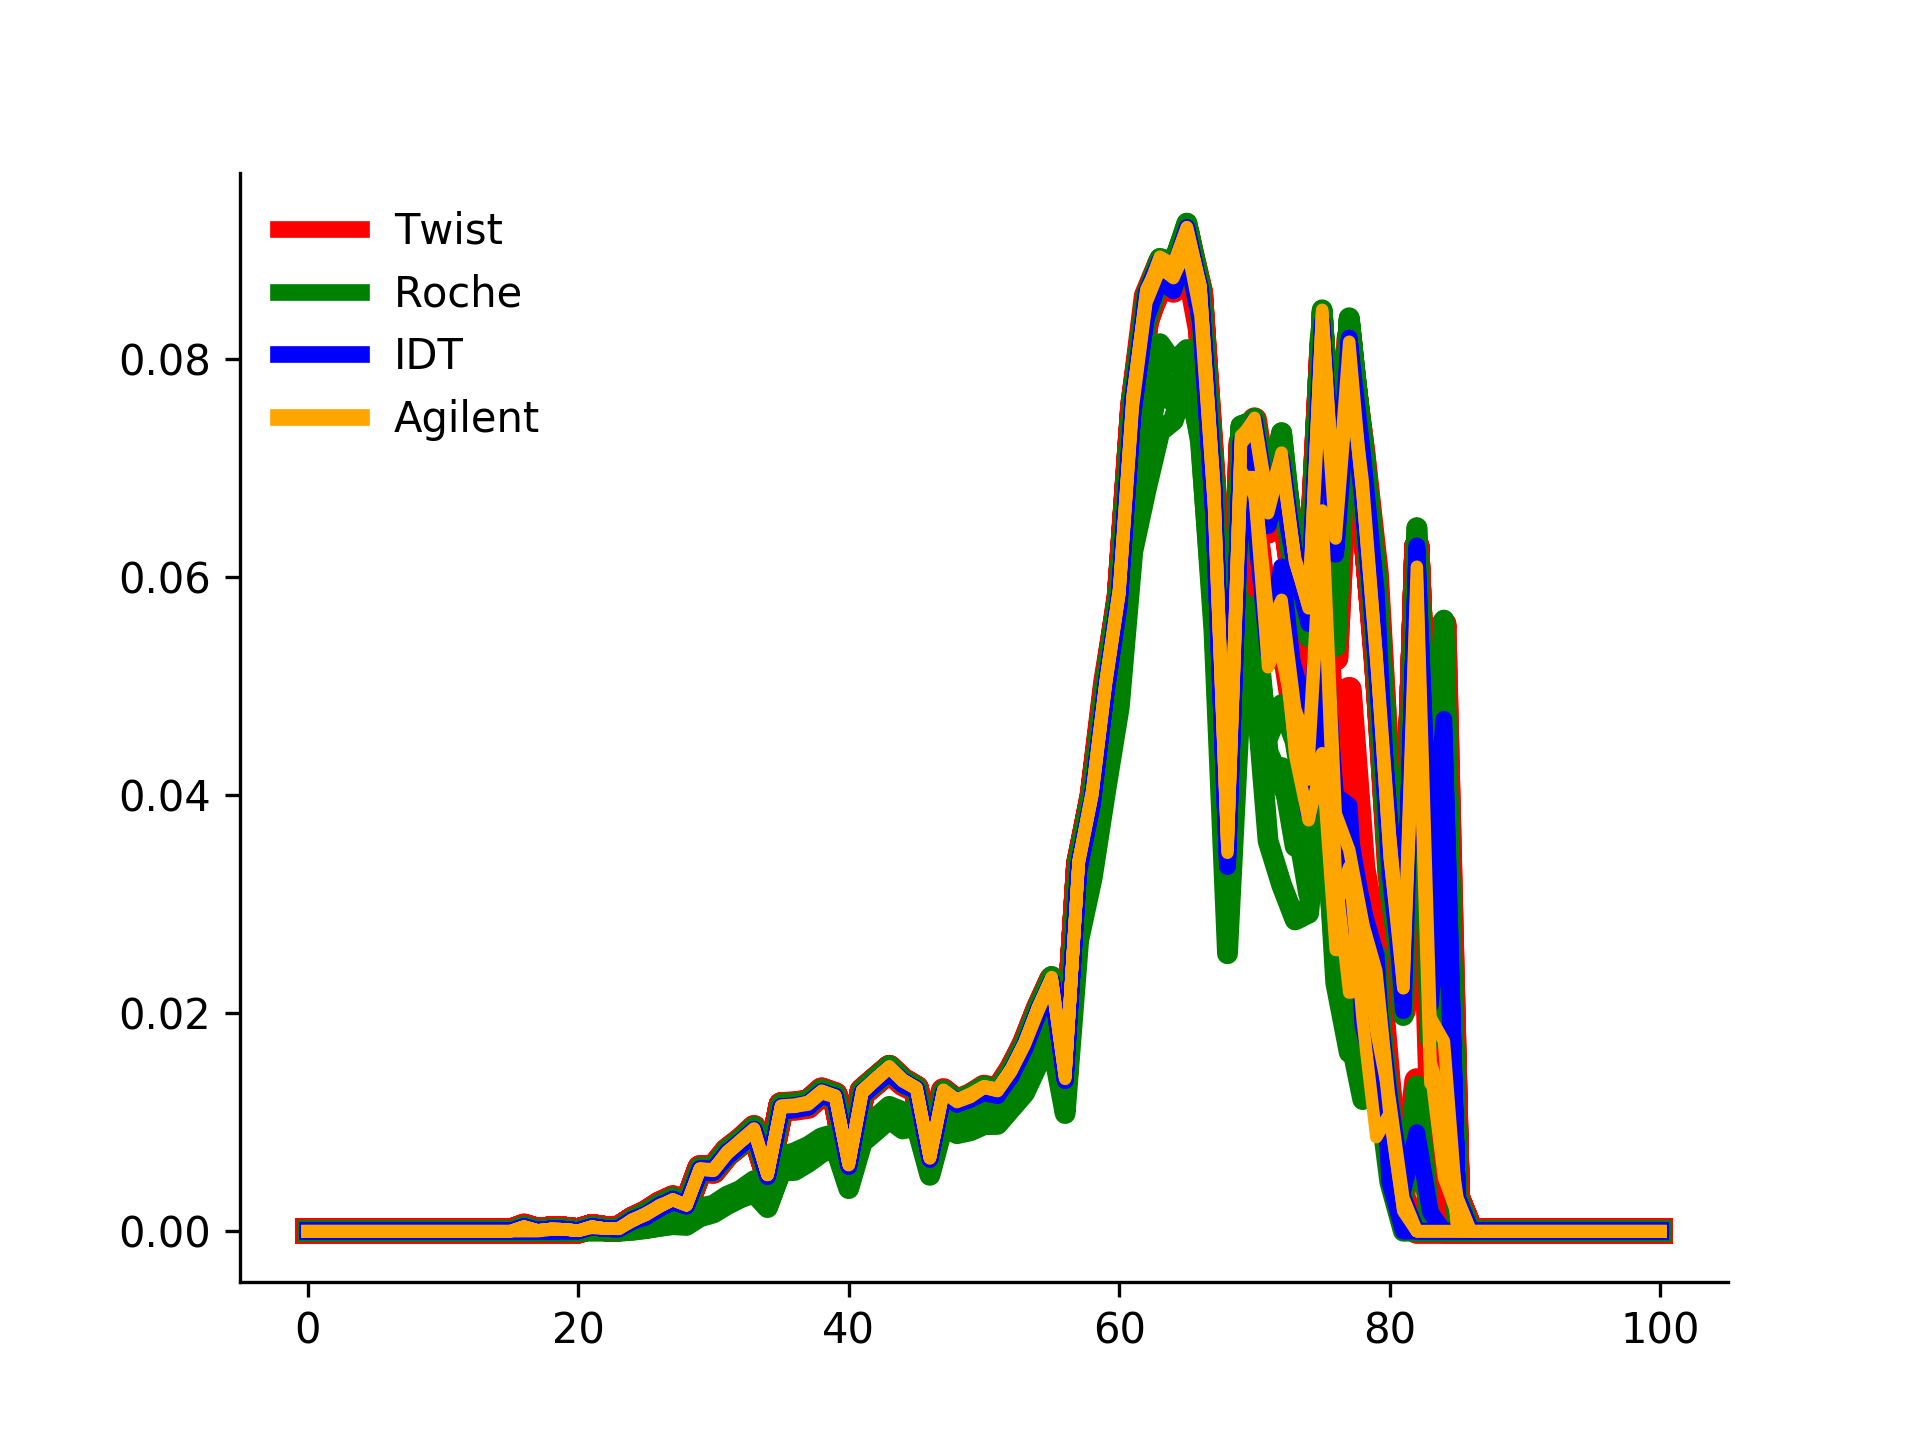
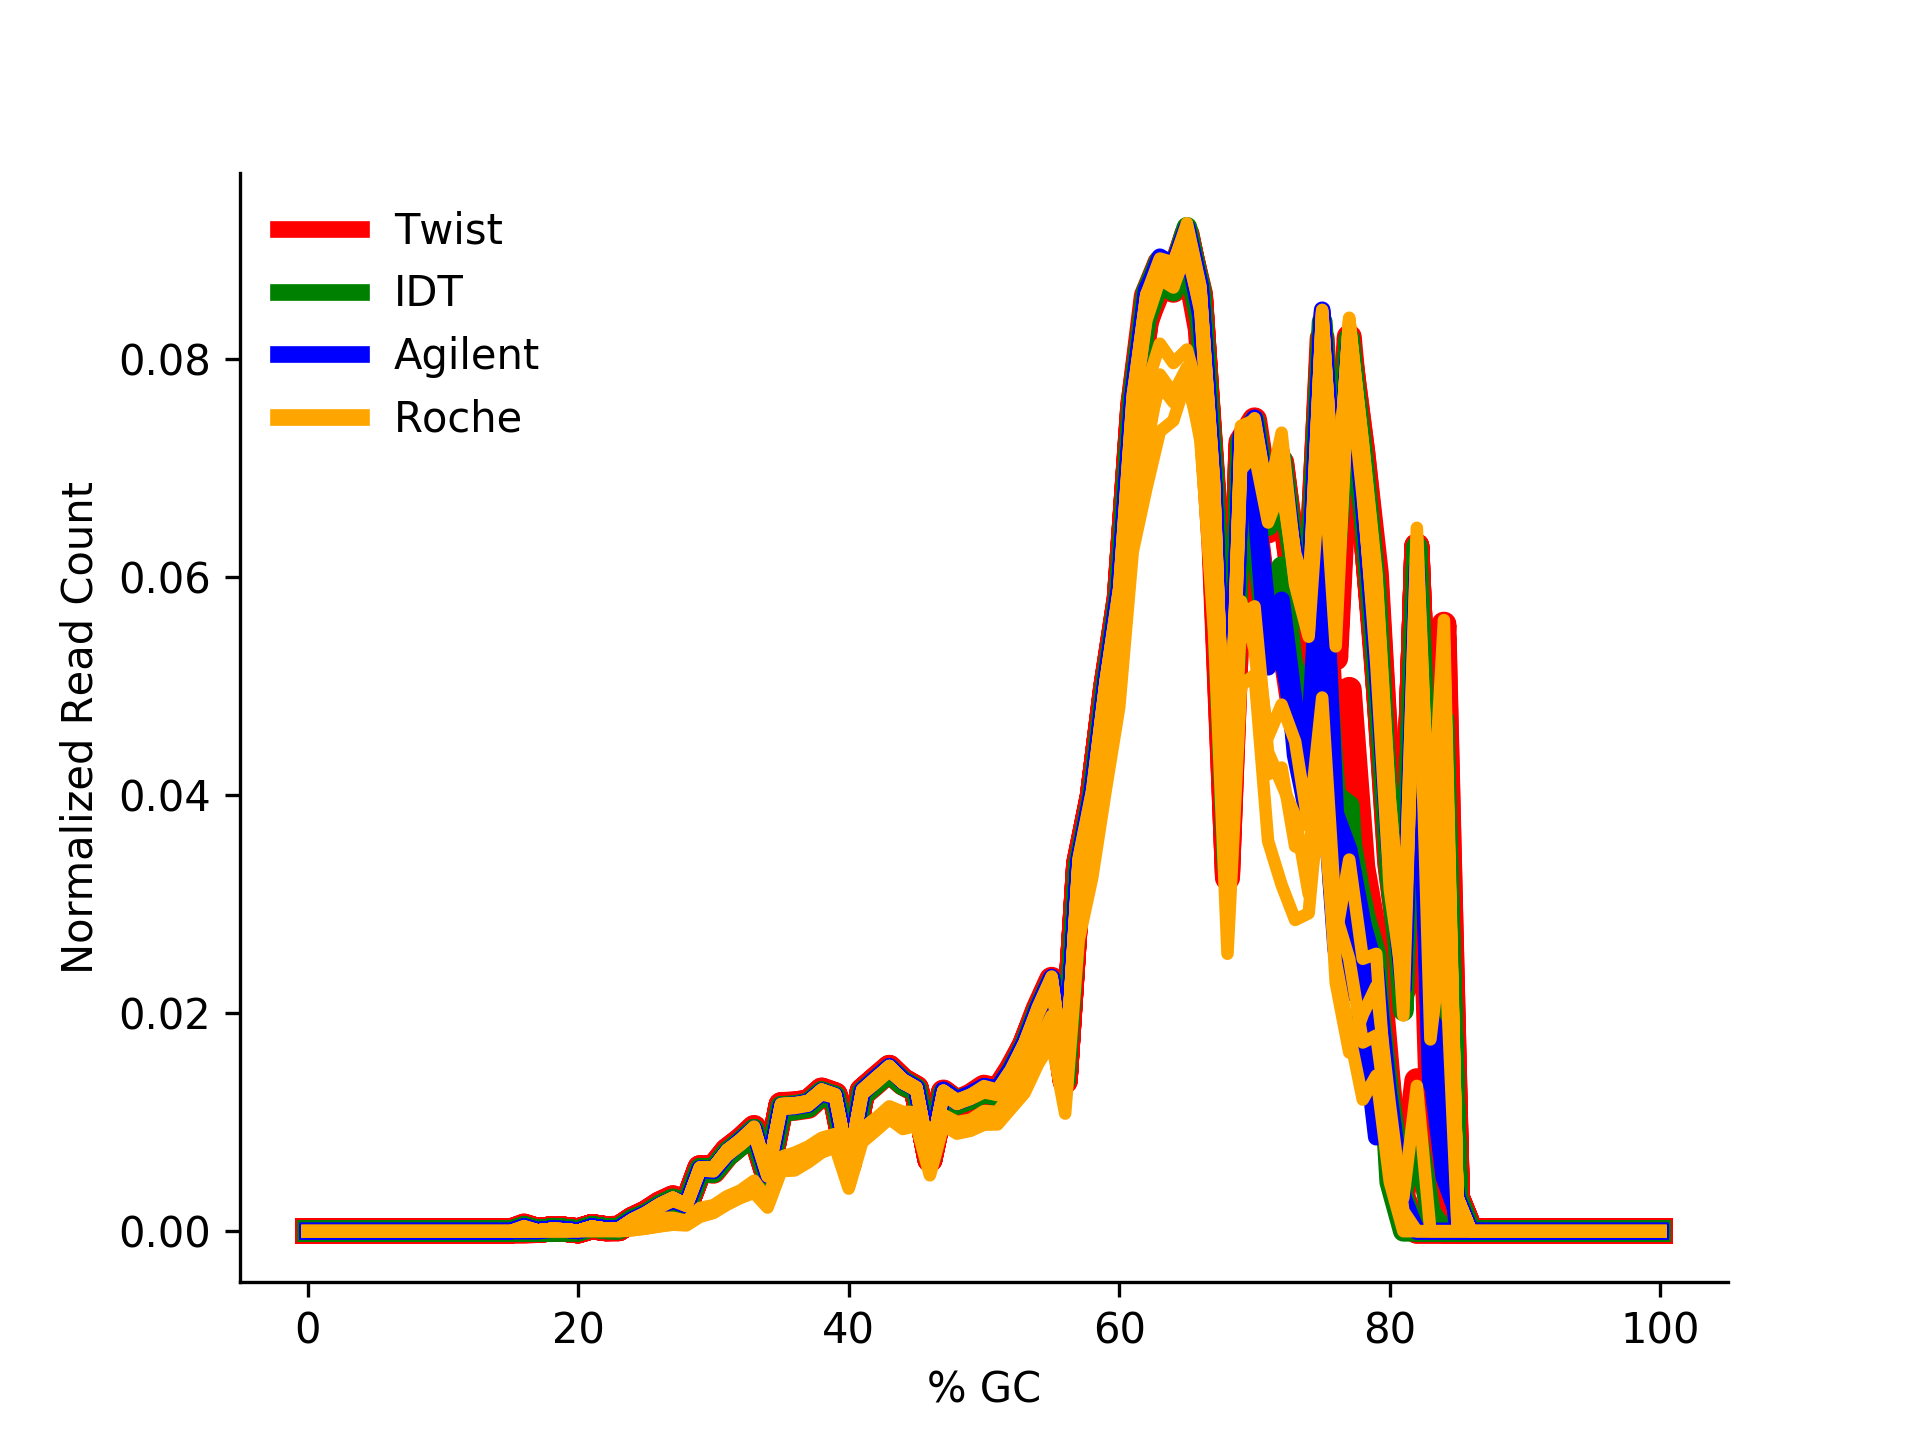
modified plot axis labels and created non-normalized % GC plots that are beautiful

diff --git a/Analyses/Biases/GCBias/plotting.py b/Analyses/Biases/GCBias/plotting.py
@@ -8,16 +8,16 @@ import sys
 from os import makedirs
 
 
-def plot_by_tech(df,col,fig_name):
+def plot_by_tech(df, col, y_col, y_lab, fig_name):
     # rgba based color schemes to make colors semi transparent
     # pale = [(.07,.46,.2,.5), (.2,.14,.53,.5),(.86,.8,.46,.5),(.8,.4,.46,.5),(.53,.01,.33,.5),(.54,.8,.93,.5)]
     # opacity = .8
     # colors = [(230/255,159/255,3/255,opacity),(86/255,180/255,233/255,opacity),(5/255,158/255,115/255,opacity),(3/255,114/255,178/255,opacity),(213/255,94/255,0,opacity),(204/255,121/255,167/255,opacity)]
-    colors = ['r','g','b','orange','purple','y']
-    widths = [6,5,4,3,2,1]
+    colors = ['r', 'g', 'b', 'orange', 'purple', 'y']
+    widths = [6, 5, 4, 3, 2, 1]
     samples = list(set(df[col]))
     # create dictionaries of the group and the color / width of their lines
-    color_map = { samples[i]:colors[i] for i in range(len(samples))}
+    color_map = {samples[i]: colors[i] for i in range(len(samples))}
     width_map = {samples[i]: widths[i] for i in range(len(samples))}
     custom_lines = []
 
@@ -27,7 +27,8 @@ def plot_by_tech(df,col,fig_name):
         sub = df[df[col] == sample]
         for s in list(set(sub['SAMPLE'])):
             subsub = sub[sub['SAMPLE'] == s]
-            ax.plot(subsub['percent'], subsub['ref_bin_normed_count'],color=color_map[sample],linewidth=width_map[sample])
+            ax.plot(subsub['percent'], subsub[y_col], color=color_map[sample],
+                    linewidth=width_map[sample])
 
     # Hide the right and top spines
     ax.spines['right'].set_visible(False)
@@ -38,7 +39,11 @@ def plot_by_tech(df,col,fig_name):
     ax.xaxis.set_ticks_position('bottom')
 
     plt.legend(custom_lines, samples, frameon=False, loc='upper left')
-    plt.savefig(fig_name,dpi=300)
+    plt.xlabel('% GC')
+    plt.ylabel(y_lab)
+
+    plt.savefig(fig_name, dpi=300)
+    plt.clf()
 
 
 """
@@ -100,8 +105,11 @@ def make_plots(csv_dir, results_dir):
     plt.savefig(results_dir + 'ribbon-gc_bias-capture_technology.png')
     plt.clf()
 
-    plot_by_tech(data, 'tech_one', results_dir + 'gc_bias_library_prep.png')
-    plot_by_tech(data, 'tech_two', results_dir + 'gc_bias_capture_technology.png')
+    plot_by_tech(data, 'tech_one', 'ref_bin_normed_count', 'Normalized Read Count', results_dir + 'gc_bias_library_prep.png')
+    plot_by_tech(data, 'tech_two', 'ref_bin_normed_count', 'Normalized Read Count', results_dir + 'gc_bias_capture_technology.png')
+
+    plot_by_tech(data, 'tech_one', 'count', 'Read Count', results_dir + 'raw_coverage_gc_bias_library_prep.png')
+    plot_by_tech(data, 'tech_two', 'count', 'Read Count', results_dir + 'raw_coverage_gc_bias_capture_technology.png')
 
 
 if __name__ == "__main__":
